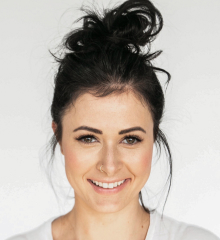
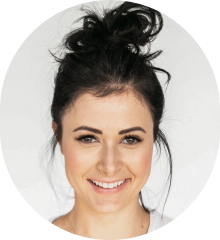
Include Skills Page
Implement the Skills page and touched up on the landing Page.

diff --git a/portfolio/src/scenes/MySkills.jsx b/portfolio/src/scenes/MySkills.jsx
@@ -1,0 +1,148 @@
+import LineGradient from "../components/LineGradient";
+import useMediaQuery from "../hooks/useMediaQuery";
+import { motion } from "framer-motion";
+
+const MySkills = () => {
+  const isAboveMediumScreens = useMediaQuery("(min-width: 1060px)");
+  return (
+    <section id="skills" className="pt-10 pb-24">
+      <div className="md:flex md:justify-between md:gap-16 mt-32">
+        <motion.div
+          className="md:w-1/3"
+          initial="hidden"
+          whileInView="visible"
+          viewport={{ once: true, amount: 0.5 }}
+          transition={{ duration: 0.5 }}
+          variants={{
+            hidden: { opacity: 0, x: -50 },
+            visible: { opacity: 1, x: 0 },
+          }}
+        >
+          <p className="font-playfair font-semibold text-4xl mb-5">
+            My <span className="text-red">Skills</span>
+          </p>
+          <LineGradient width="w-1/3" />
+          <p className="mt-10 mb-7">
+            {" "}
+            Eager to embrace new challenges and technologies, I thrive in
+            collaborative environments and am dedicated to making a positive
+            impact through the art of programming.
+          </p>
+        </motion.div>
+        <div className="mt-16 md:mt-0">
+          {isAboveMediumScreens ? (
+            <div
+              className="relative z-0 ml-20 before:absolute before:-top-10 before:-left-10 
+                before:w-full before:h-full before:border-2 before:border-blue before:z-[-1]"
+            >
+              <img
+                alt="profile"
+                className="z-10"
+                src="assets/skills-image.png"
+              ></img>
+            </div>
+          ) : (
+            <img alt="profile" className="z-10" src="assets/skills-image.png" />
+          )}
+        </div>
+      </div>
+      {/* Skills */}
+      <div className="md:flex md:justify-between mt-16 gap-32">
+        {/* Experience */}
+        <motion.div
+          className="md:w-1/3 mt-10"
+          initial="hidden"
+          whileInView="visible"
+          viewport={{ once: true, amount: 0.5 }}
+          transition={{ duration: 0.5 }}
+          variants={{
+            hidden: { opacity: 0, y: 50 },
+            visible: { opacity: 1, y: 0 },
+          }}
+        >
+          <div className="relative h-32">
+            <div className="z-10">
+              <p className="font-playfair font-semibold text-5xl">01</p>
+              <p className="font-playfair font-semibold text-3xl mt-3">
+                Experience
+              </p>
+            </div>
+            <div className="w-1/2 md:w-3/4 h-32 bg-blue absolute right-0 top-0 z-[-1]" />
+          </div>
+          <p className="mt-5">
+            With a passion for <strong>tutoring</strong> computer science, I
+            find joy in sharing my expertise through Supplemental Instructing
+            sessions. In this role, I specialize in teaching algorithms and data
+            structures, equipping students with invaluable knowledge and
+            problem-solving skills.
+          </p>
+        </motion.div>
+        {/* Leadership */}
+        <motion.div
+          className="md:w-1/3 mt-10"
+          initial="hidden"
+          whileInView="visible"
+          viewport={{ once: true, amount: 0.5 }}
+          transition={{ delay: 0.2, duration: 0.5 }}
+          variants={{
+            hidden: { opacity: 0, y: 50 },
+            visible: { opacity: 1, y: 0 },
+          }}
+        >
+          <div className="relative h-32">
+            <div className="z-10">
+              <p className="font-playfair font-semibold text-5xl">02</p>
+              <p className="font-playfair font-semibold text-3xl mt-3">
+                Leadership
+              </p>
+            </div>
+            <div className="w-1/2 md:w-3/4 h-32 bg-red absolute right-0 top-0 z-[-1]" />
+          </div>
+          <p className="mt-5">
+            In my role as the <strong> President </strong> of the California
+            State University, Fullerton chapter of the Association for Computing
+            Machinery (ACM), I am delighted to foster a thriving community that
+            empowers over
+            <strong> 1,300 students</strong> to enhance their programming
+            skills.
+          </p>
+        </motion.div>
+        {/* Languages */}
+        <motion.div
+          className="md:w-1/3 mt-10"
+          initial="hidden"
+          whileInView="visible"
+          viewport={{ once: true, amount: 0.5 }}
+          transition={{ delay: 0.4, duration: 0.5 }}
+          variants={{
+            hidden: { opacity: 0, y: 50 },
+            visible: { opacity: 1, y: 0 },
+          }}
+        >
+          <div className="relative h-32">
+            <div className="z-10">
+              <p className="font-playfair font-semibold text-5xl">03</p>
+              <p className="font-playfair font-semibold text-3xl mt-3">
+                Languages
+              </p>
+            </div>
+            <div className="w-1/2 md:w-3/4 h-32 bg-yellow absolute right-0 top-0 z-[-1]" />
+          </div>
+          <p className="mt-5">
+            My skillset encompasses a vast array of{" "}
+            <strong>programming languages</strong>, including{" "}
+            <strong>
+              C++, C, Python, JavaScript (as well as TypeScript), Java, and
+              Golang
+            </strong>
+            . For front-end website development, I utilize frameworks/libraries
+            like <strong>React and Svelte</strong>, and I understand{" "}
+            <strong>HTML, CSS (and Tailwind CSS)</strong>.
+          </p>
+        </motion.div>
+      </div>
+    </section>
+  );
+};
+
+export default MySkills;

diff --git a/portfolio/src/scenes/Navbar.jsx b/portfolio/src/scenes/Navbar.jsx
@@ -2,7 +2,7 @@ import { useState } from "react";
 import AnchorLink from "react-anchor-link-smooth-scroll";
 import useMediaQuery from "../hooks/useMediaQuery";
 
-const Link = ({ page, selectedPage, setSetSelectedPage }) => {
+const Link = ({ page, selectedPage, setSelectedPage }) => {
   const lowerCasePage = page.toLowerCase();
   return (
     <AnchorLink
@@ -10,14 +10,14 @@ const Link = ({ page, selectedPage, setSetSelectedPage }) => {
         selectedPage === lowerCasePage ? "text-yellow" : ""
       } hover:text-yellow transition duration-500`}
       href={`#${lowerCasePage}`}
-      onClick={() => setSetSelectedPage(lowerCasePage)}
+      onClick={() => setSelectedPage(lowerCasePage)}
     >
       {page}
     </AnchorLink>
   );
 };
 
-const Navbar = ({ isTopOfPage, selectedPage, setSetSelectedPage }) => {
+const Navbar = ({ isTopOfPage, selectedPage, setSelectedPage }) => {
   const [isMenuToggled, setIsMenuToggled] = useState(false);
   const isAboveSmallScreens = useMediaQuery("(min-width: 768px)");
   const navBackground = isTopOfPage ? "" : "bg-red";
@@ -32,27 +32,27 @@ const Navbar = ({ isTopOfPage, selectedPage, setSetSelectedPage }) => {
             <Link
               page="Home"
               selectedPage={selectedPage}
-              setSetSelectedPage={setSetSelectedPage}
+              setSelectedPage={setSelectedPage}
             />
             <Link
               page="Skills"
               selectedPage={selectedPage}
-              setSetSelectedPage={setSetSelectedPage}
+              setSelectedPage={setSelectedPage}
             />
             <Link
               page="Project"
               selectedPage={selectedPage}
-              setSetSelectedPage={setSetSelectedPage}
+              setSelectedPage={setSelectedPage}
             />
             <Link
               page="Testimonials"
               selectedPage={selectedPage}
-              setSetSelectedPage={setSetSelectedPage}
+              setSelectedPage={setSelectedPage}
             />
             <Link
               page="Contact"
               selectedPage={selectedPage}
-              setSetSelectedPage={setSetSelectedPage}
+              setSelectedPage={setSelectedPage}
             />
           </div>
         ) : (
@@ -78,27 +78,27 @@ const Navbar = ({ isTopOfPage, selectedPage, setSetSelectedPage }) => {
               <Link
                 page="Home"
                 selectedPage={selectedPage}
-                setSetSelectedPage={setSetSelectedPage}
+                setSelectedPage={setSelectedPage}
               />
               <Link
                 page="Skills"
                 selectedPage={selectedPage}
-                setSetSelectedPage={setSetSelectedPage}
+                setSelectedPage={setSelectedPage}
               />
               <Link
                 page="Project"
                 selectedPage={selectedPage}
-                setSetSelectedPage={setSetSelectedPage}
+                setSelectedPage={setSelectedPage}
               />
               <Link
                 page="Testimonials"
                 selectedPage={selectedPage}
-                setSetSelectedPage={setSetSelectedPage}
+                setSelectedPage={setSelectedPage}
               />
               <Link
                 page="Contact"
                 selectedPage={selectedPage}
-                setSetSelectedPage={setSetSelectedPage}
+                setSelectedPage={setSelectedPage}
               />
             </div>
           </div>

diff --git a/portfolio/src/components/SocialMediaIcons.jsx b/portfolio/src/components/SocialMediaIcons.jsx
@@ -2,7 +2,7 @@ const SocialMediaIcons = () => {
   return (
     <div className="flex justify-center md:justify-start my-10 gap-7">
       <a
-        classname="hover:opacity-50 transition duration-500"
+        className="hover:opacity-50 transition duration-500"
         href="https://linkedin.com/in/david-solano787"
         target="_blank"
         rel="noreferrer"
@@ -10,7 +10,7 @@ const SocialMediaIcons = () => {
         <img alt="linkedin-link" src="../assets/linkedin.png"></img>
       </a>
       <a
-        classname="hover:opacity-50 transition duration-500"
+        className="hover:opacity-50 transition duration-500"
         href="https://github.com/DavidJSolano"
         target="_blank"
         rel="noreferrer"
@@ -18,7 +18,7 @@ const SocialMediaIcons = () => {
         <img alt="github-link" src="../assets/github.png"></img>
       </a>
       <a
-        classname="hover:opacity-50 transition duration-500"
+        className="hover:opacity-50 transition duration-500"
         href="https://www.facebook.com/david.solano.31149/"
         target="_blank"
         rel="noreferrer"
@@ -26,7 +26,7 @@ const SocialMediaIcons = () => {
         <img alt="facebook-link" src="../assets/facebook.png"></img>
       </a>
       <a
-        classname="hover:opacity-50 transition duration-500"
+        className="hover:opacity-50 transition duration-500"
         href="https://www.instagram.com/davidjsolano/"
         target="_blank"
         rel="noreferrer"

diff --git a/portfolio/src/App.js b/portfolio/src/App.js
@@ -3,6 +3,8 @@ import useMediaQuery from "./hooks/useMediaQuery";
 import Landing from "./scenes/Landing";
 import Navbar from "./scenes/Navbar";
 import DotGroup from "./scenes/DotGroup";
+import LineGradient from "./components/LineGradient.jsx";
+import MySkills from "./scenes/MySkills.jsx";
 function App() {
   const [selectedPage, setSelectedPage] = useState("home");
   const isAboveMediumScreens = useMediaQuery("(min-width: 1060px)");
@@ -31,6 +33,10 @@ function App() {
           />
         )}
         <Landing setSelectedPage={setSelectedPage} />
+      </div>
+      <LineGradient />
+      <div className="w-5/6 mx-auto md:h-full">
+        <MySkills />
       </div>
     </div>
   );

diff --git a/portfolio/public/output.css b/portfolio/public/output.css
@@ -773,6 +773,24 @@ video {
   border-bottom-right-radius: 0.125rem;
 }
 
+.border{
+  border-width: 1px;
+}
+
+.border-dashed{
+  border-style: dashed;
+}
+
+.border-r-amber-900{
+  --tw-border-opacity: 1;
+  border-right-color: rgb(120 53 15 / var(--tw-border-opacity));
+}
+
+.border-l-emerald-400{
+  --tw-border-opacity: 1;
+  border-left-color: rgb(52 211 153 / var(--tw-border-opacity));
+}
+
 .bg-blue{
   --tw-bg-opacity: 1;
   background-color: rgb(44 188 233 / var(--tw-bg-opacity));

diff --git a/portfolio/src/components/LineGradient.jsx b/portfolio/src/components/LineGradient.jsx
@@ -1,0 +1,4 @@
+const LineGradient = ({ width = "w-full" }) => {
+  return <div className={`h-0.5 ${width} bg-gradient-rainblue`} />;
+};
+export default LineGradient;
